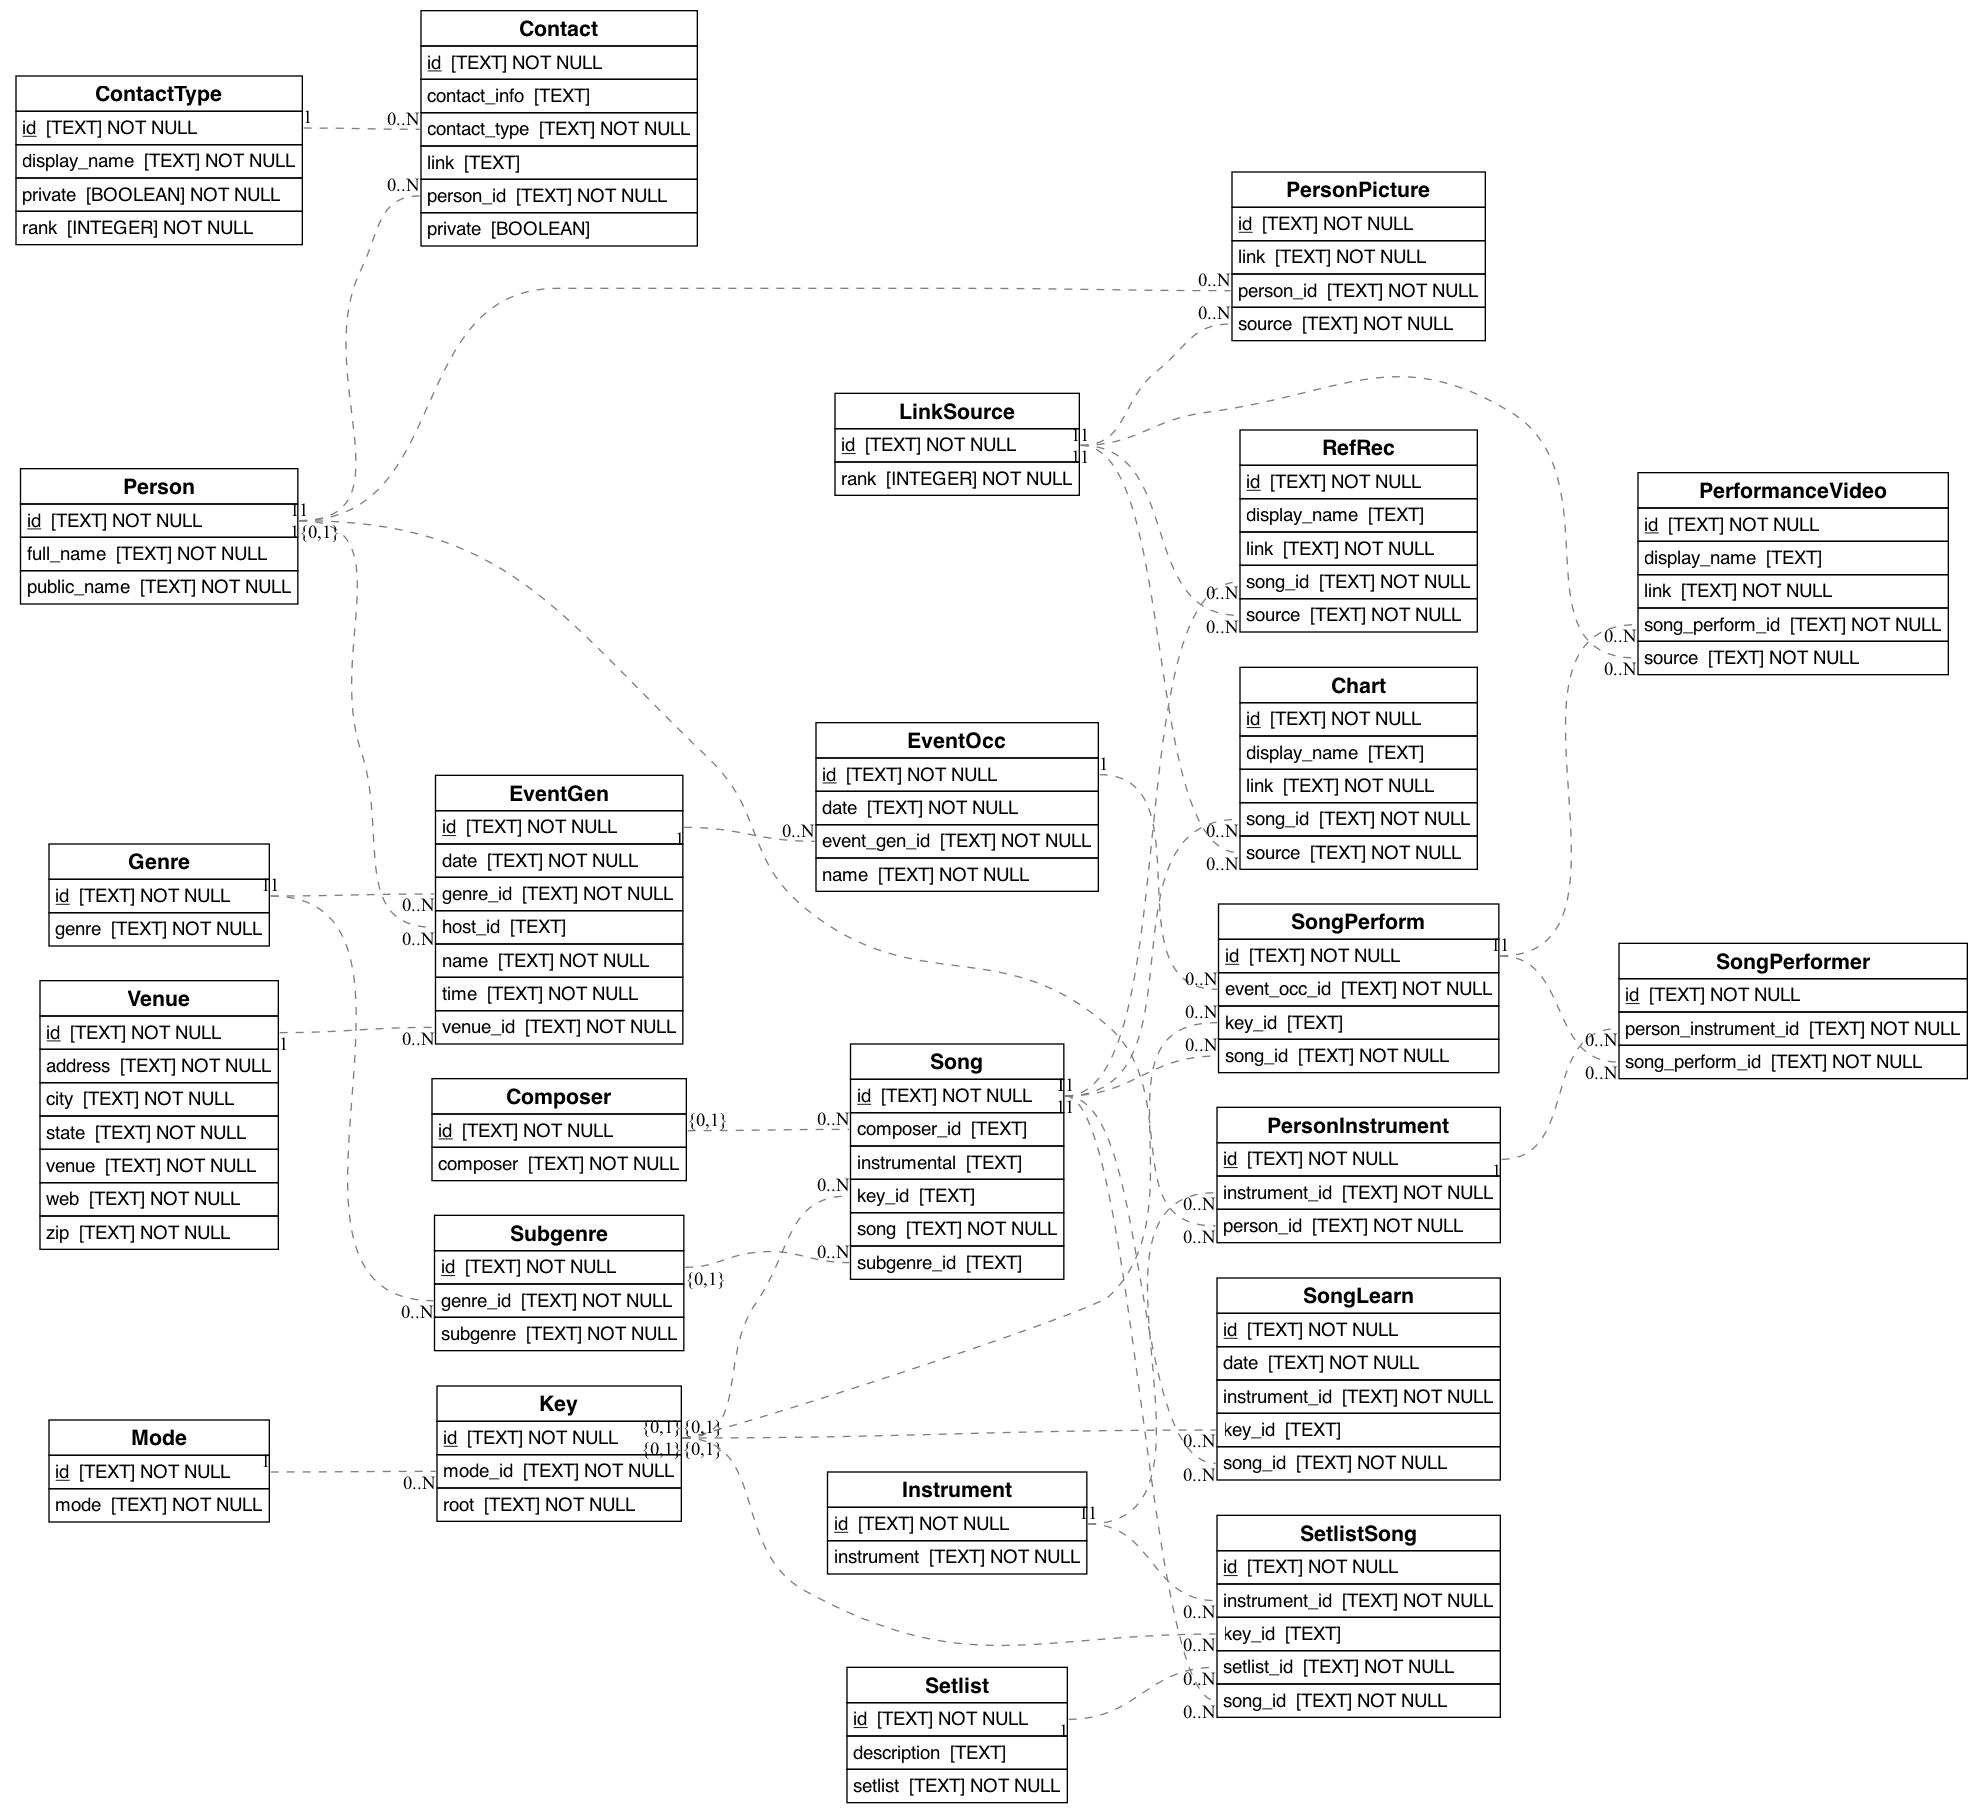
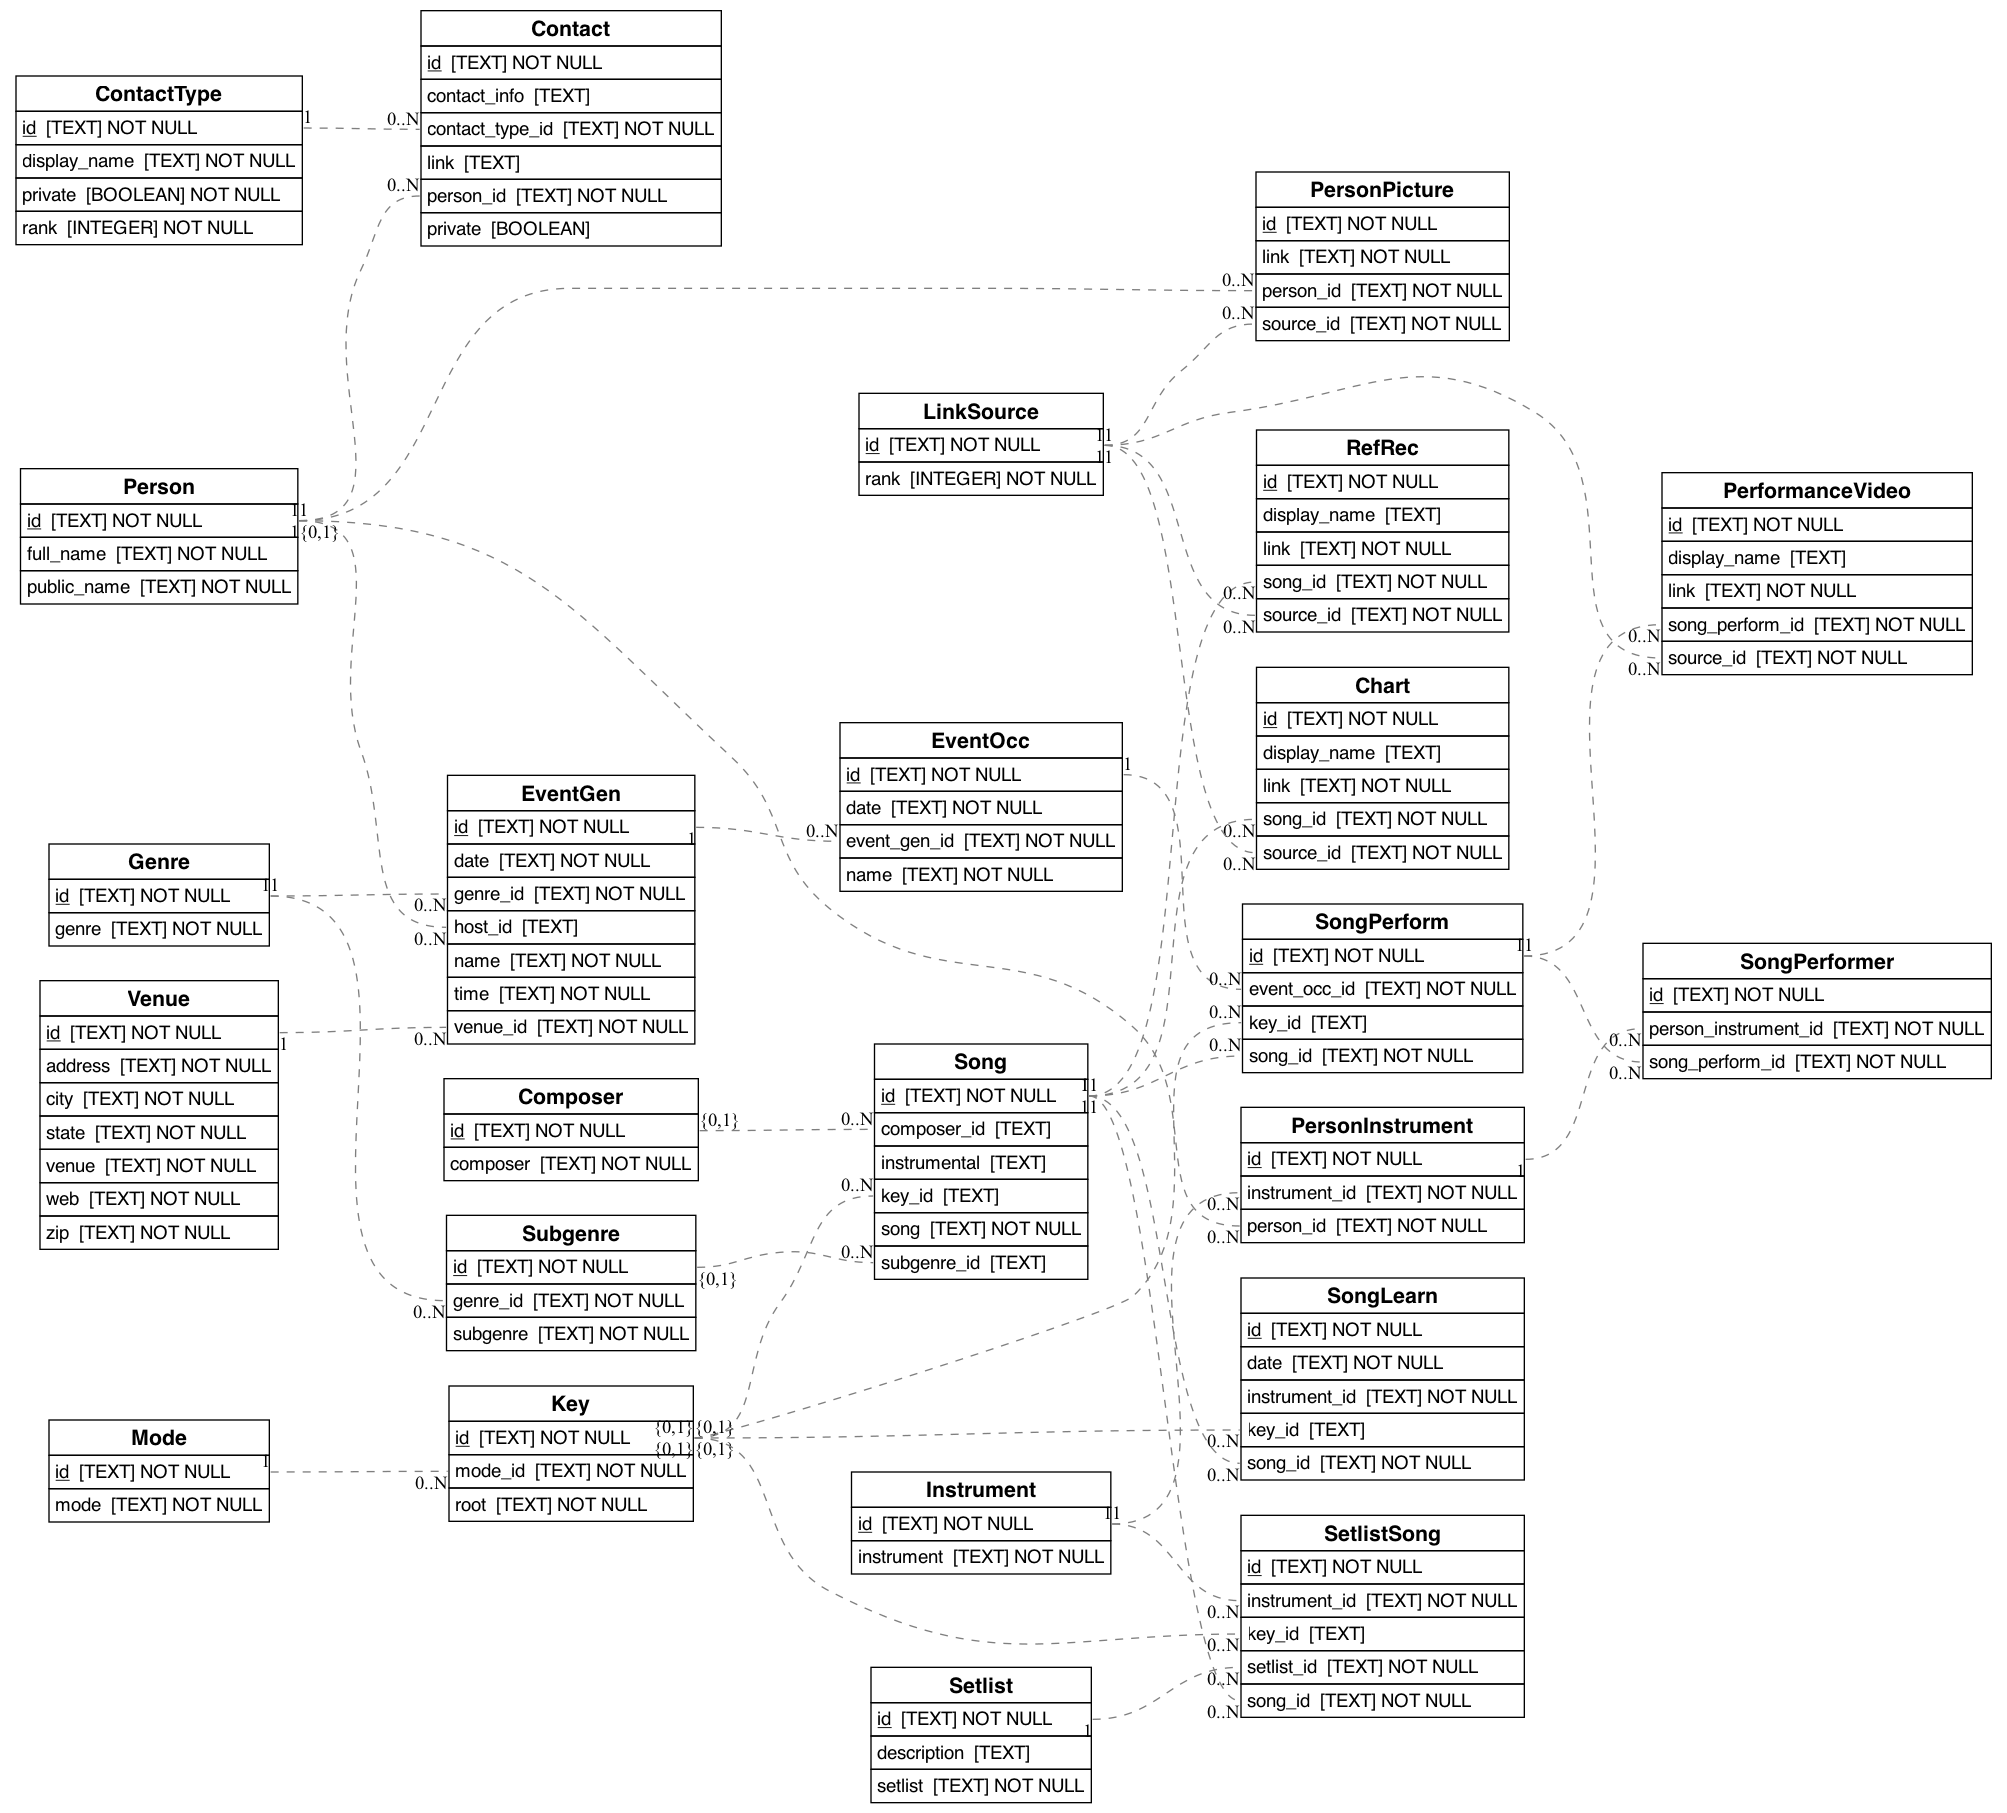
rename source to source_id

diff --git a/scripts/initialize_db.py b/scripts/initialize_db.py
@@ -87,7 +87,7 @@ def insert_for_song_performance(db_handler, song_perform, me_id=ME_ID):
                     {
                         "id": len(videos),                        
                         "song_perform_id": sp_id,
-                        "source": "youtube",
+                        "source_id": "youtube",
                         "link": val
                     }
                 )
@@ -104,12 +104,12 @@ def process_charts(data_dir, charts_df):
         for chart_file in song_dir.glob("*"):
             chart = {"song_id": song_dir.stem}
             if chart_file.suffix == ".pdf":
-                chart["source"] = "pdf"
+                chart["source_id"] = "pdf"
                 chart["link"] = str(chart_file.relative_to(data_dir))
                 chart["display_name"] = chart_file.stem
             elif chart_file.suffix == ".json" and chart_file.stem.endswith("_ireal"):
                 data = json.loads(chart_file.read_text())
-                chart["source"] = "ireal"
+                chart["source_id"] = "ireal"
                 chart["link"] = data["i_real_href"]
                 chart["display_name"] = f"{data['song_name']} (click to download into iReal)"            
             else:
@@ -130,10 +130,10 @@ def process_person_picture(data_dir):
         person_id = person_dir.stem
         for person_file in person_dir.glob("*"):
             link = str(person_file.relative_to(data_dir))
-            source = person_file.suffix
-            if source.startswith("."):
-                source = source[1:]
-            person_pictures.append({"person_id": person_id, "link": link, "source": source})
+            source_id = person_file.suffix
+            if source_id.startswith("."):
+                source_id = source_id[1:]
+            person_pictures.append({"person_id": person_id, "link": link, "source_id": source_id})
 
     person_pictures = pd.DataFrame(person_pictures)
     person_pictures["id"] = person_pictures.apply(row_to_hash, axis=1)

diff --git a/jamdb/graphene.py b/jamdb/graphene.py
@@ -95,11 +95,17 @@ def _create_qraphene_objects(model_classes):
         class Meta:
             model = model_classes["Composer"]
 
-    
+
     @register_gql("contact")
     class ContactGQL(SQLAlchemyObjectType):
         class Meta:
             model = model_classes["Contact"]
+
+
+    @register_gql("contact_type")
+    class ContactTypeGQL(SQLAlchemyObjectType):
+        class Meta:
+            model = model_classes["ContactType"]
     
 
     @register_gql("event_gen")
@@ -108,7 +114,7 @@ def _create_qraphene_objects(model_classes):
         class Meta:
             model = model_classes["EventGen"]
 
-    
+
     @register_gql("event_occ")
     @add_for_collections("song_performs", lambda: SongPerformGQL)
     class EventOccGQL(SQLAlchemyObjectType):
@@ -176,6 +182,12 @@ def _create_qraphene_objects(model_classes):
             return f"{root.root} {root.mode.mode}"
 
 
+    @register_gql("link_source")
+    class LinkSourceGQL(SQLAlchemyObjectType):
+        class Meta:
+            model = model_classes["LinkSource"]
+
+    
     @register_gql("mode")
     @add_for_collections("keys", lambda: KeyGQL)
     class ModeGQL(SQLAlchemyObjectType):
@@ -337,8 +349,8 @@ def _create_qraphene_objects(model_classes):
     class SongGQL(SQLAlchemyObjectType):
         class Meta:
             model = model_classes["Song"]
-
-
+        
+    
     @register_gql("song_learn")
     class SongLearnGQL(SQLAlchemyObjectType):
         class Meta:
